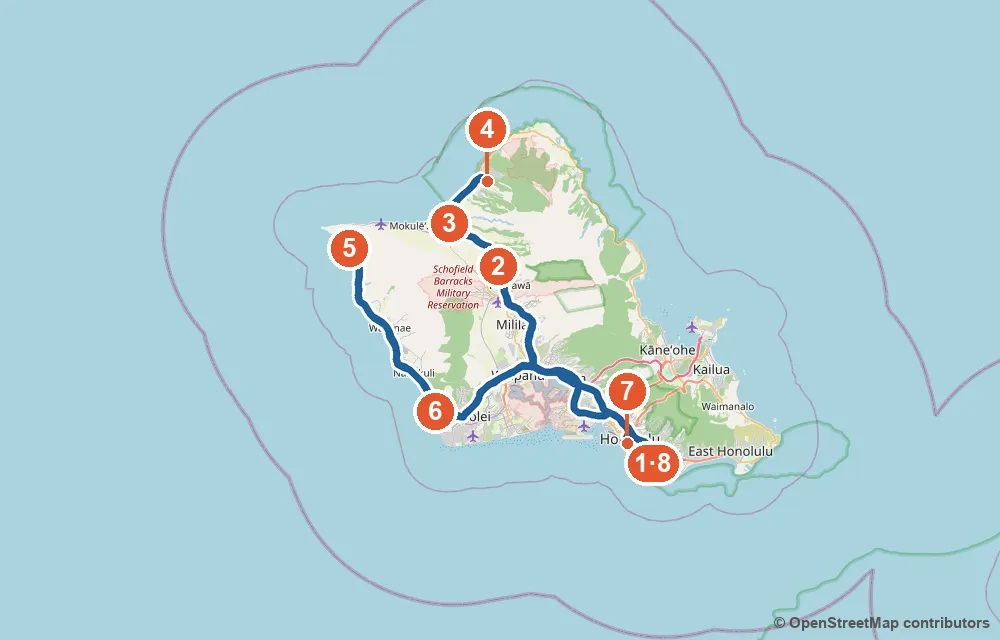
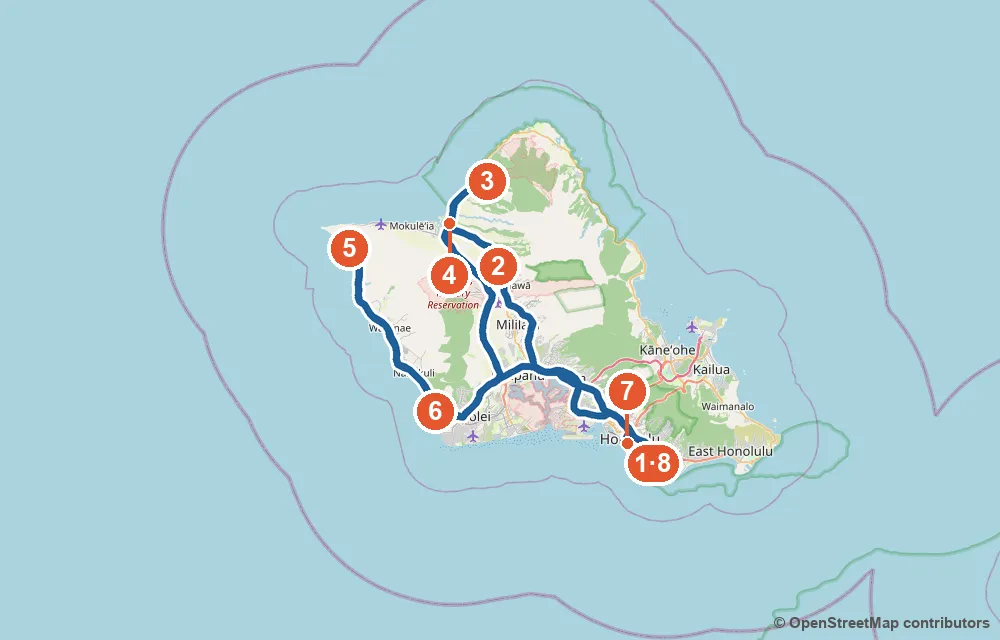
표 3곳 복구(날씨·가이드북 대조) + 11/8 동선 최적화 — 밸리 먼저, 점심은 귀로

Changed region(s): [[0.403, 0.1562, 0.527, 0.5625], [0.496, 0.5625, 0.527, 0.5938]]

diff --git a/index.html b/index.html
@@ -12,7 +12,7 @@
 // GitHub Pages 는 HTML 을 10분 캐시한다(헤더는 못 바꿈) → 열 때마다 version.json 을 캐시 없이 확인해
 // 새 버전이면 주소에 ?v=버전 을 붙여 한 번만 새로 불러온다 (같은 버전으로 이미 시도했으면 멈춤)
 (function () {
-  var BUILD = 'fba606f13d';
+  var BUILD = '30c8f68f1b';
   try {
     fetch('version.json?t=' + Date.now(), { cache: 'no-store' })
       .then(function (r) { return r.ok ? r.json() : null; })
@@ -354,7 +354,7 @@ footer { max-width: 1100px; margin: 0 auto; padding: 0 16px 48px; color: var(--m
 </section><section class="sec hotel"><div class="sec-head"><span class="sec-ic">🏨</span><h2 id="숙소-메리어트-3박-비치타워-콘도-4박-걸어서-3분">숙소</h2><small>메리어트 3박 · 비치타워 콘도 4박 (걸어서 3분)</small></div>
 <div class="tickets"><div class="hotel"><div class="tk-top"><span>11/4 (수) – 11/7 (토) · 3박 · 아고다</span></div><div class="ht-name">와이키키 비치 메리어트 리조트 &amp; 스파</div><div class="ht-times"><div><span>체크인</span><b>15:00</b><small>11/4 (수)</small></div><div><span>체크아웃</span><b>11:00</b><small>11/7 (토)</small></div></div><dl class="ht-facts"><dt>☎ 전화</dt><dd><ul class="ht-fac"><li>한국에서 <strong>001-1-808-922-6611</strong> (KT 001 · LG U+ 002 · SK 00700)</li><li>휴대폰은 <strong><a href="tel:+18089226611">+1 808 922 6611</a></strong> (누르면 바로 걸려요)</li><li>프런트 24시간 · 하와이는 한국보다 19시간 늦어요</li></ul></dd><dt>🛏 방</dt><dd><strong>객실 2개 예약 확정</strong> — 방 1: 시티뷰 퀸 1 또는 더블 2 (성인 2) · 방 2: 와이키키 시티뷰 킹 1 + 소파베드, 발코니 (성인 3) — <strong>침대는 킹 1 + 소파베드뿐</strong> (추가 침대·침대 2개 방 변경 안 됨, 11/3 확인)</dd><dt>🚿 욕실</dt><dd>객실마다 1개</dd><dt>🍳 조식</dt><dd><strong>방마다 성인 2명 포함</strong> (전화 확인 11/3) — 2번 방 세 번째 사람은 <strong>추가 요금</strong> · 2층 Kuhio Beach Grill 뷔페 (05:00–11:00)</dd><dt>🅿 주차</dt><dd><strong>호텔 셀프 주차</strong> $65/일 · 발렛 $80/일 (세금 별도 · 셀프 3박 약 $204) — 근처 반얀 주차장은 24시간 $50 (공사 중 요금 · 높이 183cm 제한)이라 하루 $15 정도 차이 · ⚠ 후기: 셀프 주차장이 좁고 자주 꽉 차서 발렛으로 돌린 일, SUV가 높아 못 들어가 발렛 쓴 일 있음 (2024~2026) · <strong>미리 예약 필요 없음</strong> (11/3 호텔 확인)</dd><dt>🏝 시설</dt><dd><ul class="ht-fac"><li>🏊 <strong>수영장 2개</strong> — 옥상 Queensbreak에 가족 풀 + 21세 이상 성인 풀, 온수 욕조 (07:00–22:00)</li><li>🍽 <strong>식당·바·카페 7곳</strong> — Kuhio Beach Grill (조식 뷔페 05–11, 2층) · Arancino di Mare (이탈리안 저녁 17–21) · Queensbreak 레스토랑·풀사이드 바 (옥상 11–23) · 스타벅스 2곳 · Island Vintage 셰이브아이스 — Sansei·DK Steakhouse는 2025.9 폐업</li><li>🛒 <strong>ABC 스토어</strong> (로비층 편의점)</li><li>🧺 <strong>셀프 세탁실</strong> (Paoakalani 타워 2층) — 세탁·건조 각 $6.50 (2026.5 투숙 후기), 카드 결제 · 드라이클리닝 서비스 별도</li><li>💆 Royal Kaila 스파 (09–18) · 피트니스 24시간</li><li>🌺 우쿨렐레·훌라·레이 만들기 수업 (리조트피 포함)</li><li>🎭 Paina Waikiki 루아우 디너쇼 (월·수·금·토·일, 별도 예약)</li><li>🗣 일본어 직원 있음 · 한국어 직원 없음 (11/3 전화 확인)</li></ul></dd></dl><ul class="ht-notes"><li>11/4 체크인 전·11/7 체크아웃 뒤 <strong>벨데스크 짐 보관</strong></li><li>리조트피 객실당 1박 $59 + 세금 (약 $70, 현장 결제 — Wi-Fi·비치체어 또는 부기보드·문화 수업 포함)</li><li>체크인은 예약자 본인 여권 + 실물 카드</li></ul></div><div class="hotel"><div class="tk-top"><span>11/7 (토) – 11/11 (수) · 4박</span></div><div class="ht-name">와이키키 비치 타워 콘도 (에어비앤비)</div><div class="ht-times"><div><span>체크인</span><b>15:00</b><small>11/7 (토)</small></div><div><span>체크아웃</span><b>11:00</b><small>11/11 (수)</small></div></div><dl class="ht-facts"><dt>☎ 전화</dt><dd><ul class="ht-fac"><li>관리 회사(캡틴 쿡 리조트)는 <strong>에어비앤비 앱 메시지</strong></li><li>관리자 전화번호는 11/5 15:00(하와이)부터 앱의 입실 안내에 나와요</li></ul></dd><dt>🛏 방</dt><dd><strong>침실 2개</strong> — 안방 킹 1 · 게스트룸 트윈 2 (요청 시 킹 1) · 거실 퀸 소파베드 · 최대 6명 · 실내 약 107㎡ + 오션뷰 발코니</dd><dt>🚿 욕실</dt><dd><strong>2개</strong> (안방 전용 1 + 공용 1)</dd><dt>🍳 조식</dt><dd>없음 — 주방 완비, 아침은 장봐서</dd><dt>🅿 주차</dt><dd><strong>발렛 1대 무료</strong> (차 높이 188cm까지, 셔틀 크기 밴 불가) · 차량 사전 등록 필요 없음 · 머무는 동안만 · 리조트피 없음</dd><dt>🏝 시설</dt><dd><ul class="ht-fac"><li>🧺 집 안 <strong>세탁기·건조기</strong> (무료)</li><li>🏊 건물 수영장·스파·피트니스</li><li>🍳 주방 완비</li></ul></dd></dl><ul class="ht-notes"><li>체크인·체크아웃 시각은 <strong>에어비앤비 예약·호스트 안내 기준</strong></li><li>도착 후 <strong>관리자에게 전화</strong>해서 체크인</li><li>매일 청소·수건 보충 없음</li><li>커피·조미료·식용유·지퍼백 없음</li></ul></div></div>
 </section><section class="sec overview"><div class="sec-head"><span class="sec-ic">🗓</span><h2 id="1-한눈에-보기">한눈에 보기</h2></div>
-<div class="ov-grid"><a class="ov c0" href="#114-수-도착-짐부터-호텔에-가볍게"><div class="ov-head"><b>11/4</b><em>수</em><span>도착</span></div><ul><li><i>🛍</i>월마트 / 돈키호테 (장보기)</li><li><i>🍳</i>기내</li><li><i>🍱</i>Highway Inn 카카아코</li><li><i>🍽</i>🌅 DECK. 일몰 (17:30)</li></ul></a><a class="ov c1" href="#115-목-진주만-와이켈레-아울렛"><div class="ov-head"><b>11/5</b><em>목</em><span>진주만</span></div><ul><li><i>🛍</i><strong>와이켈레 아울렛</strong></li><li><i>🍳</i>메리어트 조식</li><li><i>🍱</i>Restaurant 604</li><li><i>🍽</i>🍝 Arancino (호텔 1층)</li></ul></a><a class="ov c2" href="#116-금-동부-해안-카일루아-해안-먼저-저녁은-카일루아"><div class="ov-head"><b>11/6</b><em>금</em><span>동부 해안</span></div><ul><li><i>🥾</i><strong>마카푸우 등대</strong> · (선택, 아들) 라니카이 필박스</li><li><i>🛍</i><strong>카일루아</strong> 마노아 초콜릿·Whole Foods·타운</li><li><i>🍳</i>메리어트 조식</li><li><i>🍱</i>Kalapawai Café</li><li><i>🍽</i>🍺 <strong>Yard House</strong> (워크인 · 비치워크)</li></ul></a><a class="ov c3" href="#117-토-체크아웃-와이켈레-골프-큰형나-교회-작은형부모님-비치타워-체크인"><div class="ov-head"><b>11/7</b><em>토</em><span>이동일</span></div><ul><li><i>🥾</i>⛳ <strong>와이켈레 골프 12:34</strong> (큰형·나) · <del>다이아몬드헤드</del> ❌</li><li><i>🛍</i>⛪ 교회 10~14 (작은형·부모님) · 🧳 체크아웃 → 비치타워 체크인 15:00</li><li><i>🍳</i>메리어트 조식</li><li><i>🍱</i>각자 (골프장 스낵바 · 교회)</li><li><i>🍽</i>🍚 <strong>Suntory</strong> ✅ 다녀옴 (단품 샤브)</li></ul></a><a class="ov c4" href="#118-일-노스쇼어-서해안-일몰-원데이"><div class="ov-head"><b>11/8</b><em>일</em><span>노스쇼어+서해안</span></div><ul><li><i>🥾</i><strong>와이메아 밸리 폭포</strong> · 🌅 요코하마 일몰</li><li><i>🛍</i>돌 플랜테이션 · 🛒 H Mart (귀갓길)</li><li><i>🍳</i>🏠 콘도 아침</li><li><i>🍱</i>Giovanni's (이른 점심)</li><li><i>🍽</i>Monkeypod 코올리나</li></ul></a><a class="ov c5" href="#119-월-못-간-곳-만회-다이아몬드헤드-블로홀-카일루아-수영"><div class="ov-head"><b>11/9</b><em>월</em><span>못 간 곳 만회</span></div><ul><li><i>🥾</i><strong>다이아몬드헤드 (QR 재예약)</strong> · 할로나 블로홀 · 🏖 카일루아 수영</li><li><i>🛍</i>마노아 초콜릿 · 아일랜드 스노우 · 워드/월마트 선택</li><li><i>🍳</i>🏠 콘도 아침</li><li><i>🍱</i>Buzz's 카일루아</li><li><i>🍽</i>🐟 <strong>Nico's Pier 38</strong> (시푸드)</li></ul></a><a class="ov c6" href="#1110-화-뵤도인-폴리네시안-문화센터-pcc"><div class="ov-head"><b>11/10</b><em>화</em><span>PCC</span></div><ul><li><i>🥾</i><strong>팔리 전망대 · 뵤도인 사원</strong> (또는 호오말루히아)</li><li><i>🛍</i>후킬라우 마켓플레이스</li><li><i>🍳</i>🏠 콘도 아침</li><li><i>🍱</i>Seven Brothers / Giovanni's 카후쿠</li><li><i>🍽</i>PCC 루아우</li></ul></a><a class="ov c7" href="#1111-수-출발-veterans-day-공휴일"><div class="ov-head"><b>11/11</b><em>수</em><span>출발</span></div><ul><li><i>🍳</i>🏠 콘도 간단히 · 무스비 포장</li><li><i>🍱</i>기내</li></ul></a></div>
+<div class="ov-grid"><a class="ov c0" href="#114-수-도착-짐부터-호텔에-가볍게"><div class="ov-head"><b>11/4</b><em>수</em><span>도착</span></div><ul><li><i>🛍</i>월마트 / 돈키호테 (장보기)</li><li><i>🍳</i>기내</li><li><i>🍱</i>Highway Inn 카카아코</li><li><i>🍽</i>🌅 DECK. 일몰 (17:30)</li></ul></a><a class="ov c1" href="#115-목-진주만-와이켈레-아울렛"><div class="ov-head"><b>11/5</b><em>목</em><span>진주만</span></div><ul><li><i>🛍</i><strong>와이켈레 아울렛</strong></li><li><i>🍳</i>메리어트 조식</li><li><i>🍱</i>Restaurant 604</li><li><i>🍽</i>🍝 Arancino (호텔 1층)</li></ul></a><a class="ov c2" href="#116-금-동부-해안-카일루아-해안-먼저-저녁은-카일루아"><div class="ov-head"><b>11/6</b><em>금</em><span>동부 해안</span></div><ul><li><i>🥾</i><strong>마카푸우 등대</strong> · (선택, 아들) 라니카이 필박스</li><li><i>🛍</i><strong>카일루아</strong> 마노아 초콜릿·Whole Foods·타운</li><li><i>🍳</i>메리어트 조식</li><li><i>🍱</i>Kalapawai Café</li><li><i>🍽</i>🍺 <strong>Yard House</strong> (워크인 · 비치워크)</li></ul></a><a class="ov c3" href="#117-토-체크아웃-와이켈레-골프-큰형나-교회-작은형부모님-비치타워-체크인"><div class="ov-head"><b>11/7</b><em>토</em><span>이동일</span></div><ul><li><i>🥾</i>⛳ <strong>와이켈레 골프 12:34</strong> (큰형·나) · <del>다이아몬드헤드</del> ❌</li><li><i>🛍</i>⛪ 교회 10~14 (작은형·부모님) · 🧳 체크아웃 → 비치타워 체크인 15:00</li><li><i>🍳</i>메리어트 조식</li><li><i>🍱</i>각자 (골프장 스낵바 · 교회)</li><li><i>🍽</i>🍚 <strong>Suntory</strong> ✅ 다녀옴 (단품 샤브)</li></ul></a><a class="ov c4" href="#118-일-노스쇼어-서해안-일몰-원데이"><div class="ov-head"><b>11/8</b><em>일</em><span>노스쇼어+서해안</span></div><ul><li><i>🥾</i><strong>와이메아 밸리 폭포</strong> · 🌅 요코하마 일몰</li><li><i>🛍</i>돌 플랜테이션 · 🛒 H Mart (귀갓길)</li><li><i>🍳</i>🏠 콘도 아침</li><li><i>🍱</i>Giovanni's (밸리 뒤 12:50)</li><li><i>🍽</i>Monkeypod 코올리나</li></ul></a><a class="ov c5" href="#119-월-못-간-곳-만회-다이아몬드헤드-블로홀-카일루아-수영"><div class="ov-head"><b>11/9</b><em>월</em><span>못 간 곳 만회</span></div><ul><li><i>🥾</i><strong>다이아몬드헤드 (QR 재예약)</strong> · 할로나 블로홀 · 🏖 카일루아 수영</li><li><i>🛍</i>마노아 초콜릿 · 아일랜드 스노우 · 워드/월마트 선택</li><li><i>🍳</i>🏠 콘도 아침</li><li><i>🍱</i>Buzz's 카일루아</li><li><i>🍽</i>🐟 <strong>Nico's Pier 38</strong> (시푸드)</li></ul></a><a class="ov c6" href="#1110-화-뵤도인-폴리네시안-문화센터-pcc"><div class="ov-head"><b>11/10</b><em>화</em><span>PCC</span></div><ul><li><i>🥾</i><strong>팔리 전망대 · 뵤도인 사원</strong> (또는 호오말루히아)</li><li><i>🛍</i>후킬라우 마켓플레이스</li><li><i>🍳</i>🏠 콘도 아침</li><li><i>🍱</i>Seven Brothers / Giovanni's 카후쿠</li><li><i>🍽</i>PCC 루아우</li></ul></a><a class="ov c7" href="#1111-수-출발-veterans-day-공휴일"><div class="ov-head"><b>11/11</b><em>수</em><span>출발</span></div><ul><li><i>🍳</i>🏠 콘도 간단히 · 무스비 포장</li><li><i>🍱</i>기내</li></ul></a></div>
 
 </section><section class="sec days"><div class="sec-head"><span class="sec-ic">📍</span><h2 id="2-날짜별-상세-시간-장소-주차">날짜별 상세</h2><small>시간 · 장소 · 주차</small></div>
 <blockquote>
@@ -364,13 +364,13 @@ footer { max-width: 1100px; margin: 0 auto; padding: 0 16px 48px; color: var(--m
 </blockquote>
 <article class="day c0" data-date="11/8"><div class="day-head"><div class="date-badge"><b>11/8</b><span>일요일</span></div><div class="day-title"><h3 id="118-일-노스쇼어-서해안-일몰-원데이">노스쇼어 → 🌅 서해안 일몰 원데이</h3></div></div><div class="day-body">
 <p class="wx">🌧 노스쇼어 ☔ 85% — 오후로 갈수록 비 · 🌡 22~27°C · 💨 돌풍 16m / <strong>서해안(마카하·요코하마) ☔ 2% · 15~19시 비 0%</strong> — 비 오는 오후를 서쪽 일몰로 피해요 <em>(11/7 밤 재편·갱신)</em></p>
-<figure class="routemap"><img src="maps/1108.webp?v=0785245913" loading="lazy" width="1000" height="640" alt="11/8 지도"><figcaption><div class="rm-stops"><b>①</b> 비치타워 콘도 → <b>②</b> 돌 플랜테이션 → <b>③</b> Giovanni's → <b>④</b> 와이메아 밸리 → <b>⑤</b> 요코하마 베이 → <b>⑥</b> Monkeypod 코올리나 → <b>⑦</b> H Mart 카카아코 → <b>⑧</b> 비치타워 콘도</div><div class="rm-meta">🚗 하루 운전 약 230km · 막히지 않으면 약 4시간 50분 · 파란 선 = 차</div><div class="rm-links">🧭 구글 지도 길찾기 <a href="https://www.google.com/maps/dir/?api=1&amp;origin=Waikiki+Beach+Tower+2470+Kalakaua+Ave+Honolulu&amp;destination=Keawaula+Beach+Yokohama+Bay&amp;travelmode=driving&amp;waypoints=Dole+Plantation%7CGiovanni%27s+Shrimp+Truck+66-472+Kamehameha+Hwy+Haleiwa%7CWaimea+Valley" target="_blank" rel="noopener">①→⑤</a><a href="https://www.google.com/maps/dir/?api=1&amp;origin=Keawaula+Beach+Yokohama+Bay&amp;destination=Waikiki+Beach+Tower+2470+Kalakaua+Ave+Honolulu&amp;travelmode=driving&amp;waypoints=Monkeypod+Kitchen+Ko+Olina%7CH+Mart+Kakaako+458+Keawe+St+Honolulu" target="_blank" rel="noopener">⑤→⑧</a></div></figcaption><details class="rm-zoom"><summary>🔍 확대 지도 — 할레이바·노스쇼어 (③~④)</summary><img src="maps/1108-zoom.webp?v=0785245913" loading="lazy" width="1000" height="640" alt="11/8 할레이바·노스쇼어 확대 지도"></details></figure><div class="gallery"><figure><a href="https://commons.wikimedia.org/wiki/File:Dolejf2103.JPG" target="_blank" rel="noopener"><img src="https://thumb.wikimedia.org/wikipedia/commons/thumb/4/43/Dolejf2103.JPG/960px-Dolejf2103.JPG?utm_source=commons.wikimedia.org&utm_campaign=imageinfo&utm_content=thumbnail" alt="돌 플랜테이션" loading="lazy" decoding="async"></a><figcaption><b>돌 플랜테이션</b><small>© Ramon FVelasquez · CC BY-SA 3.0</small></figcaption></figure><figure><a href="https://commons.wikimedia.org/wiki/File:Haleiwa_bridge.jpg" target="_blank" rel="noopener"><img src="https://thumb.wikimedia.org/wikipedia/commons/thumb/9/92/Haleiwa_bridge.jpg/960px-Haleiwa_bridge.jpg?utm_source=commons.wikimedia.org&utm_campaign=imageinfo&utm_content=thumbnail" alt="할레이바 타운" loading="lazy" decoding="async"></a><figcaption><b>할레이바 타운</b><small>© Eric Guinther · CC BY-SA 3.0</small></figcaption></figure><figure><a href="https://commons.wikimedia.org/wiki/File:Ore_Haleiwa_Hawaii_Oahu_Matsumoto_Shave_Ice_(33673670325).jpg" target="_blank" rel="noopener"><img src="https://thumb.wikimedia.org/wikipedia/commons/thumb/1/16/Ore_Haleiwa_Hawaii_Oahu_Matsumoto_Shave_Ice_%2833673670325%29.jpg/960px-Ore_Haleiwa_Hawaii_Oahu_Matsumoto_Shave_Ice_%2833673670325%29.jpg?utm_source=commons.wikimedia.org&utm_campaign=imageinfo&utm_content=thumbnail" alt="마츠모토 셰이브아이스" loading="lazy" decoding="async"></a><figcaption><b>마츠모토 셰이브아이스</b><small>© Anthony Quintano from Honolulu, HI, Unit · CC BY 2.0</small></figcaption></figure><figure><a href="https://commons.wikimedia.org/wiki/File:Green_sea_turtle_(Chelonia_mydas)_Moorea.jpg" target="_blank" rel="noopener"><img src="https://thumb.wikimedia.org/wikipedia/commons/thumb/a/a3/Green_sea_turtle_%28Chelonia_mydas%29_Moorea.jpg/960px-Green_sea_turtle_%28Chelonia_mydas%29_Moorea.jpg?utm_source=commons.wikimedia.org&utm_campaign=imageinfo&utm_content=thumbnail" alt="바다거북 (호누)" loading="lazy" decoding="async"></a><figcaption><b>바다거북 (호누)</b><small>© Charles J. Sharp · CC BY-SA 4.0</small></figcaption></figure><figure><a href="https://commons.wikimedia.org/wiki/File:WaimeaValleyEntrance.jpg" target="_blank" rel="noopener"><img src="https://upload.wikimedia.org/wikipedia/commons/7/7d/WaimeaValleyEntrance.jpg?utm_source=commons.wikimedia.org&utm_campaign=imageinfo&utm_content=thumbnail_unscaled" alt="와이메아 밸리" loading="lazy" decoding="async"></a><figcaption><b>와이메아 밸리</b><small>© Travis.Thurston · CC BY-SA 3.0</small></figcaption></figure><figure><a href="https://commons.wikimedia.org/wiki/File:Empty_wave_at_Banzai_Pipeline.jpeg" target="_blank" rel="noopener"><img src="https://upload.wikimedia.org/wikipedia/commons/0/03/Empty_wave_at_Banzai_Pipeline.jpeg?utm_source=commons.wikimedia.org&utm_campaign=imageinfo&utm_content=thumbnail_unscaled" alt="선셋비치·파이프라인" loading="lazy" decoding="async"></a><figcaption><b>선셋비치·파이프라인</b><small>© Mat-fa · CC BY-SA 3.0</small></figcaption></figure></div><ol class="tl"><li><div class="t">08:00–08:50</div><div class="c"><div class="place">🏠 <strong>콘도 아침</strong> (비치타워 첫 아침)</div><div class="what"><del>Duke's 조식 뷔페</del> ❌ 예약 안 함 — 다들 조식 외식 생략 (11/7 밤 결정) · 집에 있는 걸로 간단히 · ☕ 커피는 근처 테이크아웃 — <strong>Kai Coffee</strong> (길 건너 하얏트 · 05:30~) 또는 <strong>Island Vintage</strong> (RHC · 05:00~)</div></div></li><li><div class="t">09:00</div><div class="c"><div class="place">출발 (H-1→H-2→99번, 약 50분)</div><div class="what">발렛 출차 미리 요청 (⚠ 마라톤 통제 — 아래)</div></div></li><li><div class="t">09:50–10:30</div><div class="c"><div class="place"><a href="https://www.google.com/maps/search/?api=1&query=Dole+Plantation" target="_blank" rel="noopener"><strong>돌 플랜테이션</strong></a> (09:30–17:30)</div><div class="what"><strong>짧게</strong> — Dole Whip · 정원 무료 (기차 $15 · 미로 $10은 선택) · 화장실 다녀오기</div><div class="park">🅿 무료 (미확인)</div></div></li><li><div class="t">10:50–11:45</div><div class="c"><div class="place"><a href="https://www.google.com/maps/search/?api=1&query=Giovanni%27s+Shrimp+Truck+Haleiwa" target="_blank" rel="noopener"><strong>Giovanni's 할레이바</strong></a> (10:30–17:00)</div><div class="what"><strong>이른 점심</strong> (오픈 직후 — 줄 가장 짧음) — 갈릭 쉬림프 스캠피 (🍴 이번 여행 새우는 여기서) · 줄이 길면 <strong>Big Wave Shrimp</strong> 또는 한식 트럭 <strong>Young's Lunch Wagon</strong></div><div class="park">🅿 푸드트럭 주차장 <strong>$2–3 현금</strong></div></div></li><li><div class="t">12:00–14:15</div><div class="c"><div class="place">🥾 <a href="https://www.google.com/maps/search/?api=1&query=Waimea+Valley" target="_blank" rel="noopener"><strong>와이메아 밸리</strong></a> (화–일 09–16)</div><div class="what">폭포까지 포장 산책 · 성인 $26 · 62세 이상 $20 · 셔틀 편도 $10 · 길 미끄러우면 폭포는 셔틀로 · 가는 길에 라니아케아를 지나요 — <strong>거북이가 보이고 자리 있으면 잠깐, 기본은 통과</strong></div><div class="park">🅿 <strong>1시간 $2 · 최대 4시간 $5</strong> (입장객 전용)</div><figure class="routemap"><img src="maps/hike-waimea.webp?v=31b8907c65" loading="lazy" width="1000" height="640" alt="하이킹: 와이메아 밸리 지도"><figcaption><div class="rm-stops"><b>🥾 와이메아 밸리 코스</b> · <b>①</b> 입구 (방문자센터) → <b>②</b> 와이메아 폭포</div><div class="rm-meta">왕복 약 2.4km 포장 산책로 · 셔틀 편도 $10 · 초록 선 = 걷는 길 (대략)</div><div class="rm-links">🧭 구글 지도 <a href="https://www.google.com/maps/search/?api=1&amp;query=21.635275,-158.052933" target="_blank" rel="noopener">📍 입구</a></div></figcaption></figure></div></li><li><div class="t">14:15–15:55</div><div class="c"><div class="place">🚗 <a href="https://www.google.com/maps/search/?api=1&query=Keawaula+Beach+Yokohama+Bay+Oahu" target="_blank" rel="noopener"><strong>요코하마 베이로 직행</strong></a> (83→H-2→H-1→93 끝까지 · 약 1시간 40분)</div><div class="what">노스쇼어와 서해안은 <strong>카에나 포인트 도로가 막혀 있어</strong>(도보만) 섬 가운데로 돌아가요 · <strong>마카하 비치는 정차 없이 차창으로</strong> · 화장실은 밸리에서 미리</div></div></li><li><div class="t">15:55–18:00</div><div class="c"><div class="place">🌅 <a href="https://www.google.com/maps/search/?api=1&query=Keawaula+Beach+Yokohama+Bay+Oahu" target="_blank" rel="noopener"><strong>요코하마 베이 (케아와울라)</strong></a></div><div class="what"><strong>93번 도로가 끝나는 곳</strong> — 도착하면 <strong>2시간 여유</strong>: 모래사장 산책·거친 해안 구경 · <strong>일몰 17:50 — 바다로 떨어지는 해</strong> (서쪽 비 0% 예보) · 입수는 안 해요 (안전요원 없음)</div><div class="park">🅿 무료 · 카에나 포인트 진입로 폐쇄 (걸어서만)</div></div></li><li><div class="t">18:20–19:40</div><div class="c"><div class="place">🍽 <a href="https://www.google.com/maps/search/?api=1&query=Monkeypod+Kitchen+Ko+Olina" target="_blank" rel="noopener"><strong>Monkeypod Kitchen 코올리나</strong></a> 저녁</div><div class="what">하와이 식재료 피자·버거·피시 타코 (5,526 ★4.4 · 반야외 + 라이브 음악) · 🍴 <strong>피자·샐러드 + 크림 파이</strong> (생선은 11/9 저녁 Nico's) · 워크인 — 대기 길면 바 자리 · 식전에 바로 옆 <strong>코올리나 라군</strong> 10분 산책 선택</div><div class="park">🅿 리조트 주차 (영수증 인증 미확인)</div></div></li><li><div class="t">19:45–20:25</div><div class="c"><div class="place">코올리나 → 카카아코 (H-1 약 40분)</div></div></li><li><div class="t">20:25–21:00</div><div class="c"><div class="place">🛒 <a href="https://www.google.com/maps/search/?api=1&query=H+Mart+Kakaako+458+Keawe+St+Honolulu" target="_blank" rel="noopener"><strong>H Mart 카카아코</strong></a> (458 Keawe St 2층 · 매일 08–22시 · ★4.3 · 1,197)</div><div class="what"><strong>한인 마트 장보기 — 콘도 아침거리</strong> (쌀·반찬·김·라면·국거리·과일) · 3층엔 푸드홀도</div><div class="park">🅿 건물 주차장 (매장 인증 여부 현장 확인)</div></div></li><li><div class="t">21:05</div><div class="c"><div class="place">콘도 복귀</div><div class="what">긴 하루 — 바로 쉬어요</div><div class="park">🅿 발렛</div></div></li></ol>
+<figure class="routemap"><img src="maps/1108.webp?v=f2a2a9f005" loading="lazy" width="1000" height="640" alt="11/8 지도"><figcaption><div class="rm-stops"><b>①</b> 비치타워 콘도 → <b>②</b> 돌 플랜테이션 → <b>③</b> 와이메아 밸리 → <b>④</b> Giovanni's → <b>⑤</b> 요코하마 베이 → <b>⑥</b> Monkeypod 코올리나 → <b>⑦</b> H Mart 카카아코 → <b>⑧</b> 비치타워 콘도</div><div class="rm-meta">🚗 하루 운전 약 226km · 막히지 않으면 약 4시간 50분 · 파란 선 = 차</div><div class="rm-links">🧭 구글 지도 길찾기 <a href="https://www.google.com/maps/dir/?api=1&amp;origin=Waikiki+Beach+Tower+2470+Kalakaua+Ave+Honolulu&amp;destination=Keawaula+Beach+Yokohama+Bay&amp;travelmode=driving&amp;waypoints=Dole+Plantation%7CWaimea+Valley%7CGiovanni%27s+Shrimp+Truck+66-472+Kamehameha+Hwy+Haleiwa" target="_blank" rel="noopener">①→⑤</a><a href="https://www.google.com/maps/dir/?api=1&amp;origin=Keawaula+Beach+Yokohama+Bay&amp;destination=Waikiki+Beach+Tower+2470+Kalakaua+Ave+Honolulu&amp;travelmode=driving&amp;waypoints=Monkeypod+Kitchen+Ko+Olina%7CH+Mart+Kakaako+458+Keawe+St+Honolulu" target="_blank" rel="noopener">⑤→⑧</a></div></figcaption><details class="rm-zoom"><summary>🔍 확대 지도 — 할레이바·노스쇼어 (③~④)</summary><img src="maps/1108-zoom.webp?v=f2a2a9f005" loading="lazy" width="1000" height="640" alt="11/8 할레이바·노스쇼어 확대 지도"></details></figure><div class="gallery"><figure><a href="https://commons.wikimedia.org/wiki/File:Dolejf2103.JPG" target="_blank" rel="noopener"><img src="https://thumb.wikimedia.org/wikipedia/commons/thumb/4/43/Dolejf2103.JPG/960px-Dolejf2103.JPG?utm_source=commons.wikimedia.org&utm_campaign=imageinfo&utm_content=thumbnail" alt="돌 플랜테이션" loading="lazy" decoding="async"></a><figcaption><b>돌 플랜테이션</b><small>© Ramon FVelasquez · CC BY-SA 3.0</small></figcaption></figure><figure><a href="https://commons.wikimedia.org/wiki/File:Haleiwa_bridge.jpg" target="_blank" rel="noopener"><img src="https://thumb.wikimedia.org/wikipedia/commons/thumb/9/92/Haleiwa_bridge.jpg/960px-Haleiwa_bridge.jpg?utm_source=commons.wikimedia.org&utm_campaign=imageinfo&utm_content=thumbnail" alt="할레이바 타운" loading="lazy" decoding="async"></a><figcaption><b>할레이바 타운</b><small>© Eric Guinther · CC BY-SA 3.0</small></figcaption></figure><figure><a href="https://commons.wikimedia.org/wiki/File:Ore_Haleiwa_Hawaii_Oahu_Matsumoto_Shave_Ice_(33673670325).jpg" target="_blank" rel="noopener"><img src="https://thumb.wikimedia.org/wikipedia/commons/thumb/1/16/Ore_Haleiwa_Hawaii_Oahu_Matsumoto_Shave_Ice_%2833673670325%29.jpg/960px-Ore_Haleiwa_Hawaii_Oahu_Matsumoto_Shave_Ice_%2833673670325%29.jpg?utm_source=commons.wikimedia.org&utm_campaign=imageinfo&utm_content=thumbnail" alt="마츠모토 셰이브아이스" loading="lazy" decoding="async"></a><figcaption><b>마츠모토 셰이브아이스</b><small>© Anthony Quintano from Honolulu, HI, Unit · CC BY 2.0</small></figcaption></figure><figure><a href="https://commons.wikimedia.org/wiki/File:Green_sea_turtle_(Chelonia_mydas)_Moorea.jpg" target="_blank" rel="noopener"><img src="https://thumb.wikimedia.org/wikipedia/commons/thumb/a/a3/Green_sea_turtle_%28Chelonia_mydas%29_Moorea.jpg/960px-Green_sea_turtle_%28Chelonia_mydas%29_Moorea.jpg?utm_source=commons.wikimedia.org&utm_campaign=imageinfo&utm_content=thumbnail" alt="바다거북 (호누)" loading="lazy" decoding="async"></a><figcaption><b>바다거북 (호누)</b><small>© Charles J. Sharp · CC BY-SA 4.0</small></figcaption></figure><figure><a href="https://commons.wikimedia.org/wiki/File:WaimeaValleyEntrance.jpg" target="_blank" rel="noopener"><img src="https://upload.wikimedia.org/wikipedia/commons/7/7d/WaimeaValleyEntrance.jpg?utm_source=commons.wikimedia.org&utm_campaign=imageinfo&utm_content=thumbnail_unscaled" alt="와이메아 밸리" loading="lazy" decoding="async"></a><figcaption><b>와이메아 밸리</b><small>© Travis.Thurston · CC BY-SA 3.0</small></figcaption></figure><figure><a href="https://commons.wikimedia.org/wiki/File:Empty_wave_at_Banzai_Pipeline.jpeg" target="_blank" rel="noopener"><img src="https://upload.wikimedia.org/wikipedia/commons/0/03/Empty_wave_at_Banzai_Pipeline.jpeg?utm_source=commons.wikimedia.org&utm_campaign=imageinfo&utm_content=thumbnail_unscaled" alt="선셋비치·파이프라인" loading="lazy" decoding="async"></a><figcaption><b>선셋비치·파이프라인</b><small>© Mat-fa · CC BY-SA 3.0</small></figcaption></figure></div><ol class="tl"><li><div class="t">08:00–08:50</div><div class="c"><div class="place">🏠 <strong>콘도 아침</strong> (비치타워 첫 아침)</div><div class="what"><del>Duke's 조식 뷔페</del> ❌ 예약 안 함 — 다들 조식 외식 생략 (11/7 밤 결정) · 집에 있는 걸로 간단히 · ☕ 커피는 근처 테이크아웃 — <strong>Kai Coffee</strong> (길 건너 하얏트 · 05:30~) 또는 <strong>Island Vintage</strong> (RHC · 05:00~)</div></div></li><li><div class="t">09:00</div><div class="c"><div class="place">출발 (H-1→H-2→99번, 약 50분)</div><div class="what">발렛 출차 미리 요청 (⚠ 마라톤 통제 — 아래)</div></div></li><li><div class="t">09:45–10:15</div><div class="c"><div class="place"><a href="https://www.google.com/maps/search/?api=1&query=Dole+Plantation" target="_blank" rel="noopener"><strong>돌 플랜테이션</strong></a> (09:30–17:30)</div><div class="what"><strong>30분만</strong> — Dole Whip · 정원 무료 (기차 $15 · 미로 $10은 선택) · 화장실 다녀오기</div><div class="park">🅿 무료 (미확인)</div></div></li><li><div class="t">10:35–12:40</div><div class="c"><div class="place">🥾 <a href="https://www.google.com/maps/search/?api=1&query=Waimea+Valley" target="_blank" rel="noopener"><strong>와이메아 밸리</strong></a> (화–일 09–16)</div><div class="what"><strong>비 가장 적은 오전에 하이킹</strong> — 폭포까지 포장 산책 · 성인 $26 · 62세 이상 $20 · 셔틀 편도 $10 · 길 미끄러우면 폭포는 셔틀로 · 가는 길에 라니아케아를 지나요 — <strong>거북이가 보이고 자리 있으면 잠깐, 기본은 통과</strong></div><div class="park">🅿 <strong>1시간 $2 · 최대 4시간 $5</strong> (입장객 전용)</div><figure class="routemap"><img src="maps/hike-waimea.webp?v=31b8907c65" loading="lazy" width="1000" height="640" alt="하이킹: 와이메아 밸리 지도"><figcaption><div class="rm-stops"><b>🥾 와이메아 밸리 코스</b> · <b>①</b> 입구 (방문자센터) → <b>②</b> 와이메아 폭포</div><div class="rm-meta">왕복 약 2.4km 포장 산책로 · 셔틀 편도 $10 · 초록 선 = 걷는 길 (대략)</div><div class="rm-links">🧭 구글 지도 <a href="https://www.google.com/maps/search/?api=1&amp;query=21.635275,-158.052933" target="_blank" rel="noopener">📍 입구</a></div></figcaption></figure></div></li><li><div class="t">12:50–13:35</div><div class="c"><div class="place"><a href="https://www.google.com/maps/search/?api=1&query=Giovanni%27s+Shrimp+Truck+Haleiwa" target="_blank" rel="noopener"><strong>Giovanni's 할레이바</strong></a> (10:30–17:00)</div><div class="what">점심 — <strong>밸리에서 돌아 나오는 길에 그대로 있어 추가 이동 0</strong> · 갈릭 쉬림프 스캠피 (🍴 이번 여행 새우는 여기서) · 줄이 길면 <strong>Big Wave Shrimp</strong> 또는 한식 트럭 <strong>Young's Lunch Wagon</strong></div><div class="park">🅿 푸드트럭 주차장 <strong>$2–3 현금</strong></div></div></li><li><div class="t">13:35–15:15</div><div class="c"><div class="place">🚗 <a href="https://www.google.com/maps/search/?api=1&query=Keawaula+Beach+Yokohama+Bay+Oahu" target="_blank" rel="noopener"><strong>요코하마 베이로 직행</strong></a> (H-2→H-1→93 끝까지 · 약 1시간 40분)</div><div class="what">노스쇼어와 서해안은 <strong>카에나 포인트 도로가 막혀 있어</strong>(도보만) 섬 가운데로 돌아가요 · <strong>마카하 비치는 정차 없이 차창으로</strong> (여유 있으면 15분 정차 선택) · 화장실은 점심 때 미리</div></div></li><li><div class="t">15:15–18:00</div><div class="c"><div class="place">🌅 <a href="https://www.google.com/maps/search/?api=1&query=Keawaula+Beach+Yokohama+Bay+Oahu" target="_blank" rel="noopener"><strong>요코하마 베이 (케아와울라)</strong></a></div><div class="what"><strong>93번 도로가 끝나는 곳</strong> — <strong>2시간 반 여유</strong>: 모래사장 산책·거친 해안 구경·차에서 낮잠 · <strong>일몰 17:50 — 바다로 떨어지는 해</strong> (서쪽 비 0% 예보) · 입수는 안 해요 (안전요원 없음)</div><div class="park">🅿 무료 · 카에나 포인트 진입로 폐쇄 (걸어서만)</div></div></li><li><div class="t">18:20–19:40</div><div class="c"><div class="place">🍽 <a href="https://www.google.com/maps/search/?api=1&query=Monkeypod+Kitchen+Ko+Olina" target="_blank" rel="noopener"><strong>Monkeypod Kitchen 코올리나</strong></a> 저녁</div><div class="what">하와이 식재료 피자·버거·피시 타코 (5,526 ★4.4 · 반야외 + 라이브 음악) · 🍴 <strong>피자·샐러드 + 크림 파이</strong> (생선은 11/9 저녁 Nico's) · 워크인 — 대기 길면 바 자리 · 식전에 바로 옆 <strong>코올리나 라군</strong> 10분 산책 선택</div><div class="park">🅿 리조트 주차 (영수증 인증 미확인)</div></div></li><li><div class="t">19:45–20:25</div><div class="c"><div class="place">코올리나 → 카카아코 (H-1 약 40분)</div></div></li><li><div class="t">20:25–21:00</div><div class="c"><div class="place">🛒 <a href="https://www.google.com/maps/search/?api=1&query=H+Mart+Kakaako+458+Keawe+St+Honolulu" target="_blank" rel="noopener"><strong>H Mart 카카아코</strong></a> (458 Keawe St 2층 · 매일 08–22시 · ★4.3 · 1,197)</div><div class="what"><strong>한인 마트 장보기 — 콘도 아침거리</strong> (쌀·반찬·김·라면·국거리·과일) · 3층엔 푸드홀도</div><div class="park">🅿 건물 주차장 (매장 인증 여부 현장 확인)</div></div></li><li><div class="t">21:05</div><div class="c"><div class="place">콘도 복귀</div><div class="what">긴 하루 — 바로 쉬어요</div><div class="park">🅿 발렛</div></div></li></ol>
 
 
 <ul>
 <li>⚠ <strong>11/8 (일) 아침 도로 통제:</strong> Val Nolasco 하프마라톤 05:00–11:00 — 칼라카우아·몬사랏·카피올라니 공원 일대 (시 교통국 공지) → <strong>08:15쯤 객실 전화로 발렛에 9시 출차 요청 + 나가는 길 확인</strong> (진출입은 옆길이라 쿠히오→맥컬리→H-1이면 통제 구간 안 탐)</li>
 <li>❌ <strong>Haleiwa Joe's·할레이바 타운 뺌 (11/7 밤):</strong> 노스쇼어 오후 비 85%를 피해 <strong>서해안 일몰 + Monkeypod 저녁</strong>과 맞바꿈 — Joe's는 워크인이라 취소 연락 필요 없음 · 11/9 예정이던 서쪽 드라이브를 이날 오후로 합침</li>
-<li>✂ <strong>스탑 다이어트 (11/7 밤):</strong> 그린 월드(커피는 숙소 근처 테이크아웃) · 라니아케아(일요일 정체·갓길 위험) · 헤이아우(좁은 언덕길) · 할레이바 타운까지 뺌 — <strong>돌 → 점심 → 밸리 → 서해안 일몰 → 저녁</strong></li>
+<li>✂ <strong>스탑 다이어트 (11/7 밤):</strong> 그린 월드(커피는 숙소 근처 테이크아웃) · 라니아케아(일요일 정체·갓길 위험) · 헤이아우(좁은 언덕길) · 할레이바 타운까지 뺌 — <strong>돌 → 밸리 → 점심 → 서해안 일몰 → 저녁</strong></li>
 <li>🚗 <strong>주말 정체:</strong> 날씨 좋은 일요일엔 할레이바 → 와이메아 구간이 막힐 수 있어요 — 라니아케아는 뺐으니 그대로 통과</li>
 <li>🏄 HTA Haleʻiwa Pro 대기기간 11/5–14 — 대회가 열리면 할레이바 Aliʻi 비치가 붐벼요 (지나며 구경만)</li>
 <li>⚠ <strong>서쪽 해변 주차장 차량털이 주의</strong> — 정해진 정차 지점만, 차에 짐 안 보이게 · 🚧 마카하 쪽 Farrington Hwy 전신주 공사 (10월 말~11월) — 통제 시 30분 지연 가능</li>
@@ -1094,7 +1094,7 @@ footer { max-width: 1100px; margin: 0 auto; padding: 0 16px 48px; color: var(--m
 <tr>
 <td data-label="코스"><span class="v"><strong>83번 노스쇼어</strong></span></td>
 <td data-label="날짜"><span class="v">11/8 일</span></td>
-<td data-label="가는 길 (도로 번호)"><span class="v">와이키키 → H-1 서쪽 → H-2 북쪽 → <strong>99번 Kamehameha Hwy</strong> → 돌 플랜테이션 → 할레이바 → <strong>83번</strong> 해안 → 할레이바 Giovanni's 점심 → 와이메아 밸리 → (H-2로 되돌아) <strong>93번 서해안</strong> 요코하마 일몰 직행 → Monkeypod 저녁 (11/7 밤 합침)</span></td>
+<td data-label="가는 길 (도로 번호)"><span class="v">와이키키 → H-1 서쪽 → H-2 북쪽 → <strong>99번 Kamehameha Hwy</strong> → 돌 플랜테이션 → 할레이바 → <strong>83번</strong> 해안 → 와이메아 밸리 → 할레이바 Giovanni's 점심 → (H-2로 되돌아) <strong>93번 서해안</strong> 요코하마 일몰 직행 → Monkeypod 저녁 (11/7 밤 합침)</span></td>
 <td data-label="볼거리"><span class="v">서핑의 성지 노스쇼어 ✅</span></td>
 </tr>
 <tr>
@@ -1246,7 +1246,7 @@ footer { max-width: 1100px; margin: 0 auto; padding: 0 16px 48px; color: var(--m
 - ★4.8 이상 대안은 '리뷰 쓰면 서비스' 여부를 검증해서 의심(⚠)이면 빼요 — 옐프 평점 차이 · 개업 시기 · 현지 글<br />
 - 그 대안이 현지 평가에서 "관광객용"이거나 호불호가 갈리고, 지금 장소에 <strong>지역 수상(Hale ʻAina 등)이나 현지인 추천</strong>이 있으면 그대로 둬요.<br />
 - <strong>마지막 만찬처럼 분위기가 목적인 끼니는 예외</strong>로 해요.</p>
-<p><strong>11/3 추가 변경:</strong> 비싼 저녁 3끼를 <strong>맥주집</strong>으로 바꿨어요 — 11/5 Yard House · 11/7 Maui Brewing 와이키키 · 11/9 Waikiki Brewing (모두 숙소에서 걸어가거나 택시 5분이라 운전자도 같이 마셔요) · <strong>11/4 현지 변경:</strong> 11/4 저녁 DECK.→마루가메 우동 · <strong>11/5 저녁 Yard House→Arancino di Mare · 11/6 저녁 Buzz's→Hau Tree(해변 나무 테라스) · 11/7 저녁 Maui Brewing→Suntory(일식)</strong> (하와이식 연속·맥주집 분위기 비선호) · <strong>11/8 저녁 Haleiwa Joe's</strong> (16:30 저녁 시작 + 노을, 와이메아 베이 일몰 대신) · <strong>11/5 밤 추가: 11/6 저녁 Hau Tree→🌮 Surf N Turf Tacos</strong> (48시간 내 취소·변경 수수료 $15/인 → 예약 리스크 없는 워크인으로) · <strong>11/6 확정: Surf N Turf→🍺 Yard House 19:00</strong> (테이크아웃 분위기 → 앉아서 먹는 곳으로) · <strong>11/6 오후: 투어는 15시쯤 복귀 → 이후는 추가 일정으로 재편 (11/7·11/9)</strong> · <strong>11/9 저녁 Waikiki Brewing→🐟 Nico's Pier 38</strong> (맥주집 비선호 + 시푸드 요청) · <strong>11/6 오후: 11/7 점심 Liliha→🍽 Makai Market 푸드코트</strong> (하와이안 메뉴 피로 — 각자 골라 먹기) · 정차지는 한 줄에 하나(블로홀 교훈) · 카페는 뷰 있는 곳으로 · <strong>11/6 밤: 11/7 전면 개편</strong> — <del>다이아몬드헤드</del>·KCC·미술관·알라모아나 취소 → ⛳ 와이켈레 골프 12:34 (큰형·나) + ⛪ 교회 10~14 (작은형·부모님) · 저녁 Suntory <strong>18:30 와쇼쿠 5명 예약 완료</strong> · <strong>11/7 밤: 실제 기록</strong> — 골프 12:34~17:30 완주 (복귀는 작은형 픽업 · 우버 편도 생략) · Suntory 19:30 도착, 단품 와슈규 샤브 $60/인 — <strong>와쇼쿠는 단품 주문 가능, 다음엔 AOI 코스($82·샤브 포함)</strong> · <strong>11/7 밤 ②: 조식 외식 전부 취소</strong> — 다들 아침은 콘도에서 (11/8 Duke's·11/9 Kaila·11/10 Heavenly 예약 안 함) · <strong>11/8 귀갓길 H Mart 카카아코 장보기 추가</strong> · 콘도 도보 아침 대안 조사: Lulu's ★4.4 (오션뷰)·Barefoot ★4.4·Kai Coffee ★4.4 · <strong>11/7 밤 ③: 11/8 스탑 다이어트</strong> — 그린 월드(커피는 숙소 근처 테이크아웃)·라니아케아·헤이아우 뺌, 돌→밸리→Giovanni's→할레이바 4곳만 (이후 타운도 ☔ 비 올 때만으로) · <strong>11/7 밤 ④: 점심을 밸리 앞으로</strong> — Giovanni's 10:50 이른 점심 → 밸리 12:00~14:30 (점심·저녁 간격 3시간 → 5시간) · <strong>11/7 밤 ⑤: 11/8·11/9 재편</strong> — 11/8 오후를 서해안으로 (Haleiwa Joe's·할레이바 타운 ❌ → 요코하마 일몰 직행 + Monkeypod 저녁 · 서쪽 비 0% · 마카하는 차창) · 11/9 = 못 간 곳 만회 — 🥾 다이아몬드헤드 재예약 · 🌊 할로나 블로홀 · Buzz's 점심 · 🏖 <strong>카일루아 비치 수영</strong> (가족 요청 — 첫 바다 수영) · 아일랜드 스노우 · 마노아 초콜릿 · Nico's 유지<br />
+<p><strong>11/3 추가 변경:</strong> 비싼 저녁 3끼를 <strong>맥주집</strong>으로 바꿨어요 — 11/5 Yard House · 11/7 Maui Brewing 와이키키 · 11/9 Waikiki Brewing (모두 숙소에서 걸어가거나 택시 5분이라 운전자도 같이 마셔요) · <strong>11/4 현지 변경:</strong> 11/4 저녁 DECK.→마루가메 우동 · <strong>11/5 저녁 Yard House→Arancino di Mare · 11/6 저녁 Buzz's→Hau Tree(해변 나무 테라스) · 11/7 저녁 Maui Brewing→Suntory(일식)</strong> (하와이식 연속·맥주집 분위기 비선호) · <strong>11/8 저녁 Haleiwa Joe's</strong> (16:30 저녁 시작 + 노을, 와이메아 베이 일몰 대신) · <strong>11/5 밤 추가: 11/6 저녁 Hau Tree→🌮 Surf N Turf Tacos</strong> (48시간 내 취소·변경 수수료 $15/인 → 예약 리스크 없는 워크인으로) · <strong>11/6 확정: Surf N Turf→🍺 Yard House 19:00</strong> (테이크아웃 분위기 → 앉아서 먹는 곳으로) · <strong>11/6 오후: 투어는 15시쯤 복귀 → 이후는 추가 일정으로 재편 (11/7·11/9)</strong> · <strong>11/9 저녁 Waikiki Brewing→🐟 Nico's Pier 38</strong> (맥주집 비선호 + 시푸드 요청) · <strong>11/6 오후: 11/7 점심 Liliha→🍽 Makai Market 푸드코트</strong> (하와이안 메뉴 피로 — 각자 골라 먹기) · 정차지는 한 줄에 하나(블로홀 교훈) · 카페는 뷰 있는 곳으로 · <strong>11/6 밤: 11/7 전면 개편</strong> — <del>다이아몬드헤드</del>·KCC·미술관·알라모아나 취소 → ⛳ 와이켈레 골프 12:34 (큰형·나) + ⛪ 교회 10~14 (작은형·부모님) · 저녁 Suntory <strong>18:30 와쇼쿠 5명 예약 완료</strong> · <strong>11/7 밤: 실제 기록</strong> — 골프 12:34~17:30 완주 (복귀는 작은형 픽업 · 우버 편도 생략) · Suntory 19:30 도착, 단품 와슈규 샤브 $60/인 — <strong>와쇼쿠는 단품 주문 가능, 다음엔 AOI 코스($82·샤브 포함)</strong> · <strong>11/7 밤 ②: 조식 외식 전부 취소</strong> — 다들 아침은 콘도에서 (11/8 Duke's·11/9 Kaila·11/10 Heavenly 예약 안 함) · <strong>11/8 귀갓길 H Mart 카카아코 장보기 추가</strong> · 콘도 도보 아침 대안 조사: Lulu's ★4.4 (오션뷰)·Barefoot ★4.4·Kai Coffee ★4.4 · <strong>11/7 밤 ③: 11/8 스탑 다이어트</strong> — 그린 월드(커피는 숙소 근처 테이크아웃)·라니아케아·헤이아우 뺌, 돌→밸리→Giovanni's→할레이바 4곳만 (이후 타운도 ☔ 비 올 때만으로) · <strong>11/7 밤 ④: 점심을 밸리 앞으로</strong> — Giovanni's 10:50 이른 점심 → 밸리 12:00~14:30 (점심·저녁 간격 3시간 → 5시간) · <strong>11/7 밤 ⑤: 11/8·11/9 재편</strong> — 11/8 오후를 서해안으로 (Haleiwa Joe's·할레이바 타운 ❌ → 요코하마 일몰 직행 + Monkeypod 저녁 · 서쪽 비 0% · 마카하는 차창) · 11/9 = 못 간 곳 만회 — 🥾 다이아몬드헤드 재예약 · 🌊 할로나 블로홀 · Buzz's 점심 · 🏖 <strong>카일루아 비치 수영</strong> (가족 요청 — 첫 바다 수영) · 아일랜드 스노우 · 마노아 초콜릿 · Nico's 유지 · <strong>11/8 새벽 ⑥: 동선 최적화</strong> — 돌 30분 → 밸리 오전 하이킹 → 점심은 돌아 나오는 길 Giovanni's 12:50 (추가 거리 0 · 요코하마 15:15 도착으로 해변 여유 +40분)<br />
 <strong>결과:</strong> 식사 <strong>4끼를 바꿨어요</strong> — 11/4 저녁 DECK. · 11/5 저녁 Tommy Bahama · 11/8 아침 Duke's 조식 뷔페 · 11/10 아침 Heavenly. 기준에 걸린 나머지 3끼(11/4 점심 · 11/7 점심 · 11/9 아침)는 비교해 보고 그대로 뒀어요 <em>(11/7 점심은 이후 11/6에 푸드코트로 변경)</em>. 커피 4곳은 앞서 바꿨고, 트로피컬 팜스는 선택 정차로 더했어요.<br />
 숫자는 11/3에 <strong>구글 지도 API로 직접 받은 값</strong>이에요(리뷰 수 · ★평점). "리뷰 수 1위"는 사람이 가장 많이 갔다는 뜻이고 맛 순위는 아니에요.</p>
 </blockquote>
@@ -2079,15 +2079,15 @@ footer { max-width: 1100px; margin: 0 auto; padding: 0 16px 48px; color: var(--m
 </tr>
 <tr>
 <td data-label="우리 날짜"><span class="v">11/8 일</span></td>
-<td data-label="우리 동선"><span class="v">노스쇼어+서해안</span></td>
-<td data-label="가이드북에서 같은 조합"><span class="v"><strong>와이메아 밸리 폭포</strong> · 🌅 요코하마 일몰</span></td>
-<td data-label="체크 결과"><span class="v">돌 플랜테이션 · 🛒 H Mart (귀갓길)</span></td>
+<td data-label="우리 동선"><span class="v">돌 → 와이메아 밸리 → 할레이바 점심 → 🌅 서해안 요코하마 일몰 → 코올리나 저녁 (11/7 밤 재편)</span></td>
+<td data-label="가이드북에서 같은 조합"><span class="v">기본 DAY03 (레인보우 드라이브인 → 돌 → 할레이바 → 라니아케아 → 로미스 → 와이켈레 → 루스 크리스)</span></td>
+<td data-label="체크 결과"><span class="v">✅ 앞부분 같은 순서 · 와이켈레는 11/5에 이미 · 레인보우 드라이브인은 공식 매일 07–21이지만 임시휴업 공지도 있어 전화 확인 · Seven Brothers 일요일 휴무</span></td>
 </tr>
 <tr>
 <td data-label="우리 날짜"><span class="v">11/9 월</span></td>
-<td data-label="우리 동선"><span class="v">못 간 곳 만회</span></td>
-<td data-label="가이드북에서 같은 조합"><span class="v"><strong>다이아몬드헤드 (QR 재예약)</strong> · 할로나 블로홀 · 🏖 카일루아 수영</span></td>
-<td data-label="체크 결과"><span class="v">마노아 초콜릿 · 아일랜드 스노우 · 워드/월마트 선택</span></td>
+<td data-label="우리 동선"><span class="v">다이아몬드헤드 → 할로나 블로홀 → 카일루아 수영 (11/7 밤 재편)</span></td>
+<td data-label="가이드북에서 같은 조합"><span class="v">쇼핑 DAY04 (모닝 글라스 커피 → 차이나타운 → 카카아코 그래피티 → 모쿠 키친 → 워드 빌리지)</span></td>
+<td data-label="체크 결과"><span class="v">다이아몬드헤드는 DAY02에서 옮겨옴 · 워드는 선택으로만 · <strong>모닝 글라스 커피는 월요일 휴무 (추정)</strong> · 이올라니 궁전은 월요일 휴관</span></td>
 </tr>
 <tr>
 <td data-label="우리 날짜"><span class="v">11/10 화</span></td>
@@ -2501,7 +2501,7 @@ footer { max-width: 1100px; margin: 0 auto; padding: 0 16px 48px; color: var(--m
 
 11/8(일) 🐢 노스쇼어 → 🌅 서해안 일몰
 · 🏠 콘도 아침 (커피는 근처 테이크아웃) → 🍍 돌 플랜테이션
-· 🍤 Giovanni's 새우 이른 점심 → 🥾 와이메아 밸리 폭포
+· 🥾 와이메아 밸리 폭포 → 🍤 Giovanni's 점심 (돌아 나오는 길)
 · 🚗 요코하마 베이 직행 (1시간 40분) → 🏖 해변 여유 → 🌅 일몰 17:50
 · 🍽 Monkeypod 코올리나 저녁 (Haleiwa Joe's는 뺌)
 · 🛒 귀갓길 H Mart 카카아코 — 한인 마트 장보기 (아침거리)
@@ -2580,7 +2580,7 @@ footer { max-width: 1100px; margin: 0 auto; padding: 0 16px 48px; color: var(--m
 ☐ 위탁 수하물 23kg 초과 주의 — 귀국 때 아울렛 쇼핑 짐도
 ☐ 액체류 100ml 이하·투명 지퍼백 (총 1L) · 보조배터리는 기내 가방에</pre></div></section>
 </main>
-<footer>업데이트 2026-11-08 22:49 KST · 영업시간·주차는 2026-11-02 웹 조사 + Codex 검수 기준입니다. (미확인) 항목은 방문 전날 구글맵·전화로 다시 확인하세요. 체크 표시는 이 기기에만 저장됩니다. 사진: Wikimedia Commons 자유 이용 사진 — 사진을 누르면 저작자·라이선스 원문으로 이동합니다.</footer>
+<footer>업데이트 2026-11-08 22:51 KST · 영업시간·주차는 2026-11-02 웹 조사 + Codex 검수 기준입니다. (미확인) 항목은 방문 전날 구글맵·전화로 다시 확인하세요. 체크 표시는 이 기기에만 저장됩니다. 사진: Wikimedia Commons 자유 이용 사진 — 사진을 누르면 저작자·라이선스 원문으로 이동합니다.</footer>
 <button class="top-btn" id="topBtn" aria-label="맨 위로">↑</button>
 <script>
 (function () {
